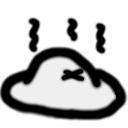
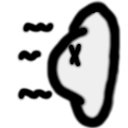
fixed collision check

diff --git a/script.js b/script.js
@@ -13,6 +13,7 @@ const Player = function() {
 	this.onGround = true;
 	this.run_img_src = ['img/char_0.png', 'img/char_1.png', 'img/char_2.png'];
 	this.jump_img_src = 'img/char_j.png';
+	this.dead_img_src = 'img/char_d.png';
 }
 
 function Obstacle(width, height, position) {
@@ -33,7 +34,9 @@ let distance = 0;
 const GAME_PLAYING = 1;
 const GAME_OVER = -1;
 let gameState = GAME_PLAYING;
+let gameOverFrame = undefined;
 
+const STAGE_RATIO = canvas.width / STAGE_WIDTH;
 const GROUND_MARGIN = 200;
 const CHARACTER_WIDTH = 40;
 const CHARACTER_HEIGHT = 35;
@@ -46,7 +49,7 @@ const player = new Player();
 console.log(player.run_img_src);
 
 const obs = [];
-obs.push(new Obstacle(15, 75, new Vector2(10, 0)));
+obs.push(new Obstacle(135, 75, new Vector2(20, 0)));
 obs.push(new Obstacle(15, 75, new Vector2(40, 0)));
 obs.push(new Obstacle(55, 75, new Vector2(60, 0)));
 obs.push(new Obstacle(15, 75, new Vector2(80, 0)));
@@ -62,10 +65,10 @@ dino_img.src = player.run_img_src[0];
 
 
 function tick() {
-	if(gameState == GAME_OVER) return;
+	if(frame == gameOverFrame+2) return;
 
 	// canvas clear
-	ctx.clearRect(0, 0, canvas.width, canvas.height)
+	ctx.clearRect(0, 0, canvas.width, canvas.height);
 
 	// draw ground
 	ctx.beginPath();
@@ -75,45 +78,22 @@ function tick() {
 	requestAnimationFrame(tick);
 
 
-	// edit parameter
-	if (!player.onGround) {
-		player.velocity.y += GRAVITY;
-		player.position.y += player.velocity.y;
-
-		if (player.position.y > 0) {
-			player.position.y = 0;
-			player.velocity.y = 0;
-			player.onGround = true;
-			dino_img.src = player.run_img_src[posture];
-		}
-	} else {
-		dino_img.src = player.run_img_src[posture];
-	}
-
-	if (gameState == GAME_OVER) {
-		dino_img.src = player.jump_img_src;
-	}
-
-	// draw character
-
-	ctx.drawImage(dino_img, CHARACTER_MARGIN, GROUND_MARGIN + player.position.y - CHARACTER_HEIGHT + PERSPECTIVE_MARGIN + 5, CHARACTER_WIDTH, CHARACTER_HEIGHT);
-
-
 	// draw obstacle
 	for (let i = 0; i < obs.length; i++) {
-		let screenX = (canvas.width / STAGE_WIDTH * (obs[i].position.x - distance))+CHARACTER_MARGIN;
+		let screenX = (STAGE_RATIO * (obs[i].position.x - distance))+CHARACTER_MARGIN;
 		let screenY = GROUND_MARGIN;
 		ctx.rect(screenX, screenY + PERSPECTIVE_MARGIN, obs[i].width, -obs[i].height);
 
 
 		// console.log(screenX)
-		if (screenX < 0) {
+		if (screenX < -(obs[i].width + 10)) {
 			obs.splice(i, 1);
 		}
 	}
 
 	// collision check
 	collided = false;
+
 	for (let i = 0; i < obs.length; i++) {
 		let px = player.position.x;
 		let py = player.position.y;
@@ -123,7 +103,15 @@ function tick() {
 		let oby = obs[i].position.y;
 		let obw = obs[i].width;
 		let obh = obs[i].height;
-		if (Math.abs(px+1 - obx) < 1.5 && (py + obh-1.5) > 0) {
+		let left = Math.abs(px - obx);
+		let right = CHARACTER_WIDTH / STAGE_RATIO;
+		if (px > obx) {
+			left = px - (obx + (obw / STAGE_RATIO))
+			right = 0;
+		}
+
+		if (left < right && (py + obh) > 0) {
+			player.dead_img_src = (right == 0) ? 'img/char_dh.png' : 'img/char_d.png';
 			collided = true;
 		}
 	}
@@ -137,6 +125,33 @@ function tick() {
 	}
 
 	ctx.fill();
+
+
+	// edit parameter
+	if (gameState == GAME_OVER) {
+		gameOverFrame = gameOverFrame ?? frame;
+		dino_img.src = player.dead_img_src;
+		ctx.drawImage(dino_img, CHARACTER_MARGIN, GROUND_MARGIN + player.position.y - CHARACTER_HEIGHT + PERSPECTIVE_MARGIN + 5, CHARACTER_WIDTH, CHARACTER_HEIGHT);
+	} else {
+		if (!player.onGround) {
+			player.velocity.y += GRAVITY;
+			player.position.y += player.velocity.y;
+
+			if (player.position.y > 0) {
+				player.position.y = 0;
+				player.velocity.y = 0;
+				player.onGround = true;
+				dino_img.src = player.run_img_src[posture];
+			}
+		} else {
+			dino_img.src = player.run_img_src[posture];
+		}
+
+		// draw character
+		ctx.drawImage(dino_img, CHARACTER_MARGIN, GROUND_MARGIN + player.position.y - CHARACTER_HEIGHT + PERSPECTIVE_MARGIN + 5, CHARACTER_WIDTH, CHARACTER_HEIGHT);
+	}
+
+
 	if (hitcount > 2) {
 		speed = 0;
 	}
